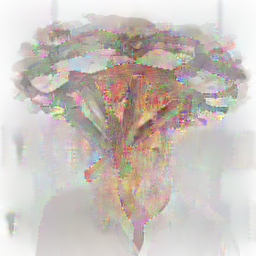
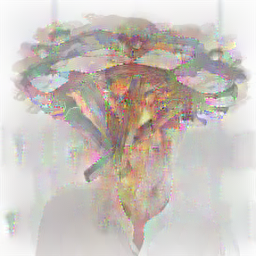
Latest results

diff --git a/final.py b/final.py
@@ -141,6 +141,7 @@ def run_anagram(t_a: torch.Tensor, t_b: torch.Tensor, view_b, steps: int=1000, l
     """
 
     # choose middle to be safe starting point, optimize till convergence
+    torch.manual_seed(42)
     anagram   = nn.Parameter(torch.rand_like(t_a) * 0.5 + 0.25)
     optimizer = optim.Adam([anagram], lr=lr)
     scheduler = optim.lr_scheduler.CosineAnnealingLR(optimizer, T_max=steps)
@@ -376,7 +377,7 @@ def main():
     # images you want to compare or transform
     image_pairs = [
         # ("face.png", "mountain.png"),
-        ("img1.jpg", "img2.jpg"),
+        ("fire.jpg", "man.jpg"),
         ("giraffe.jpg", "penguin.jpg"),
     ]
 
